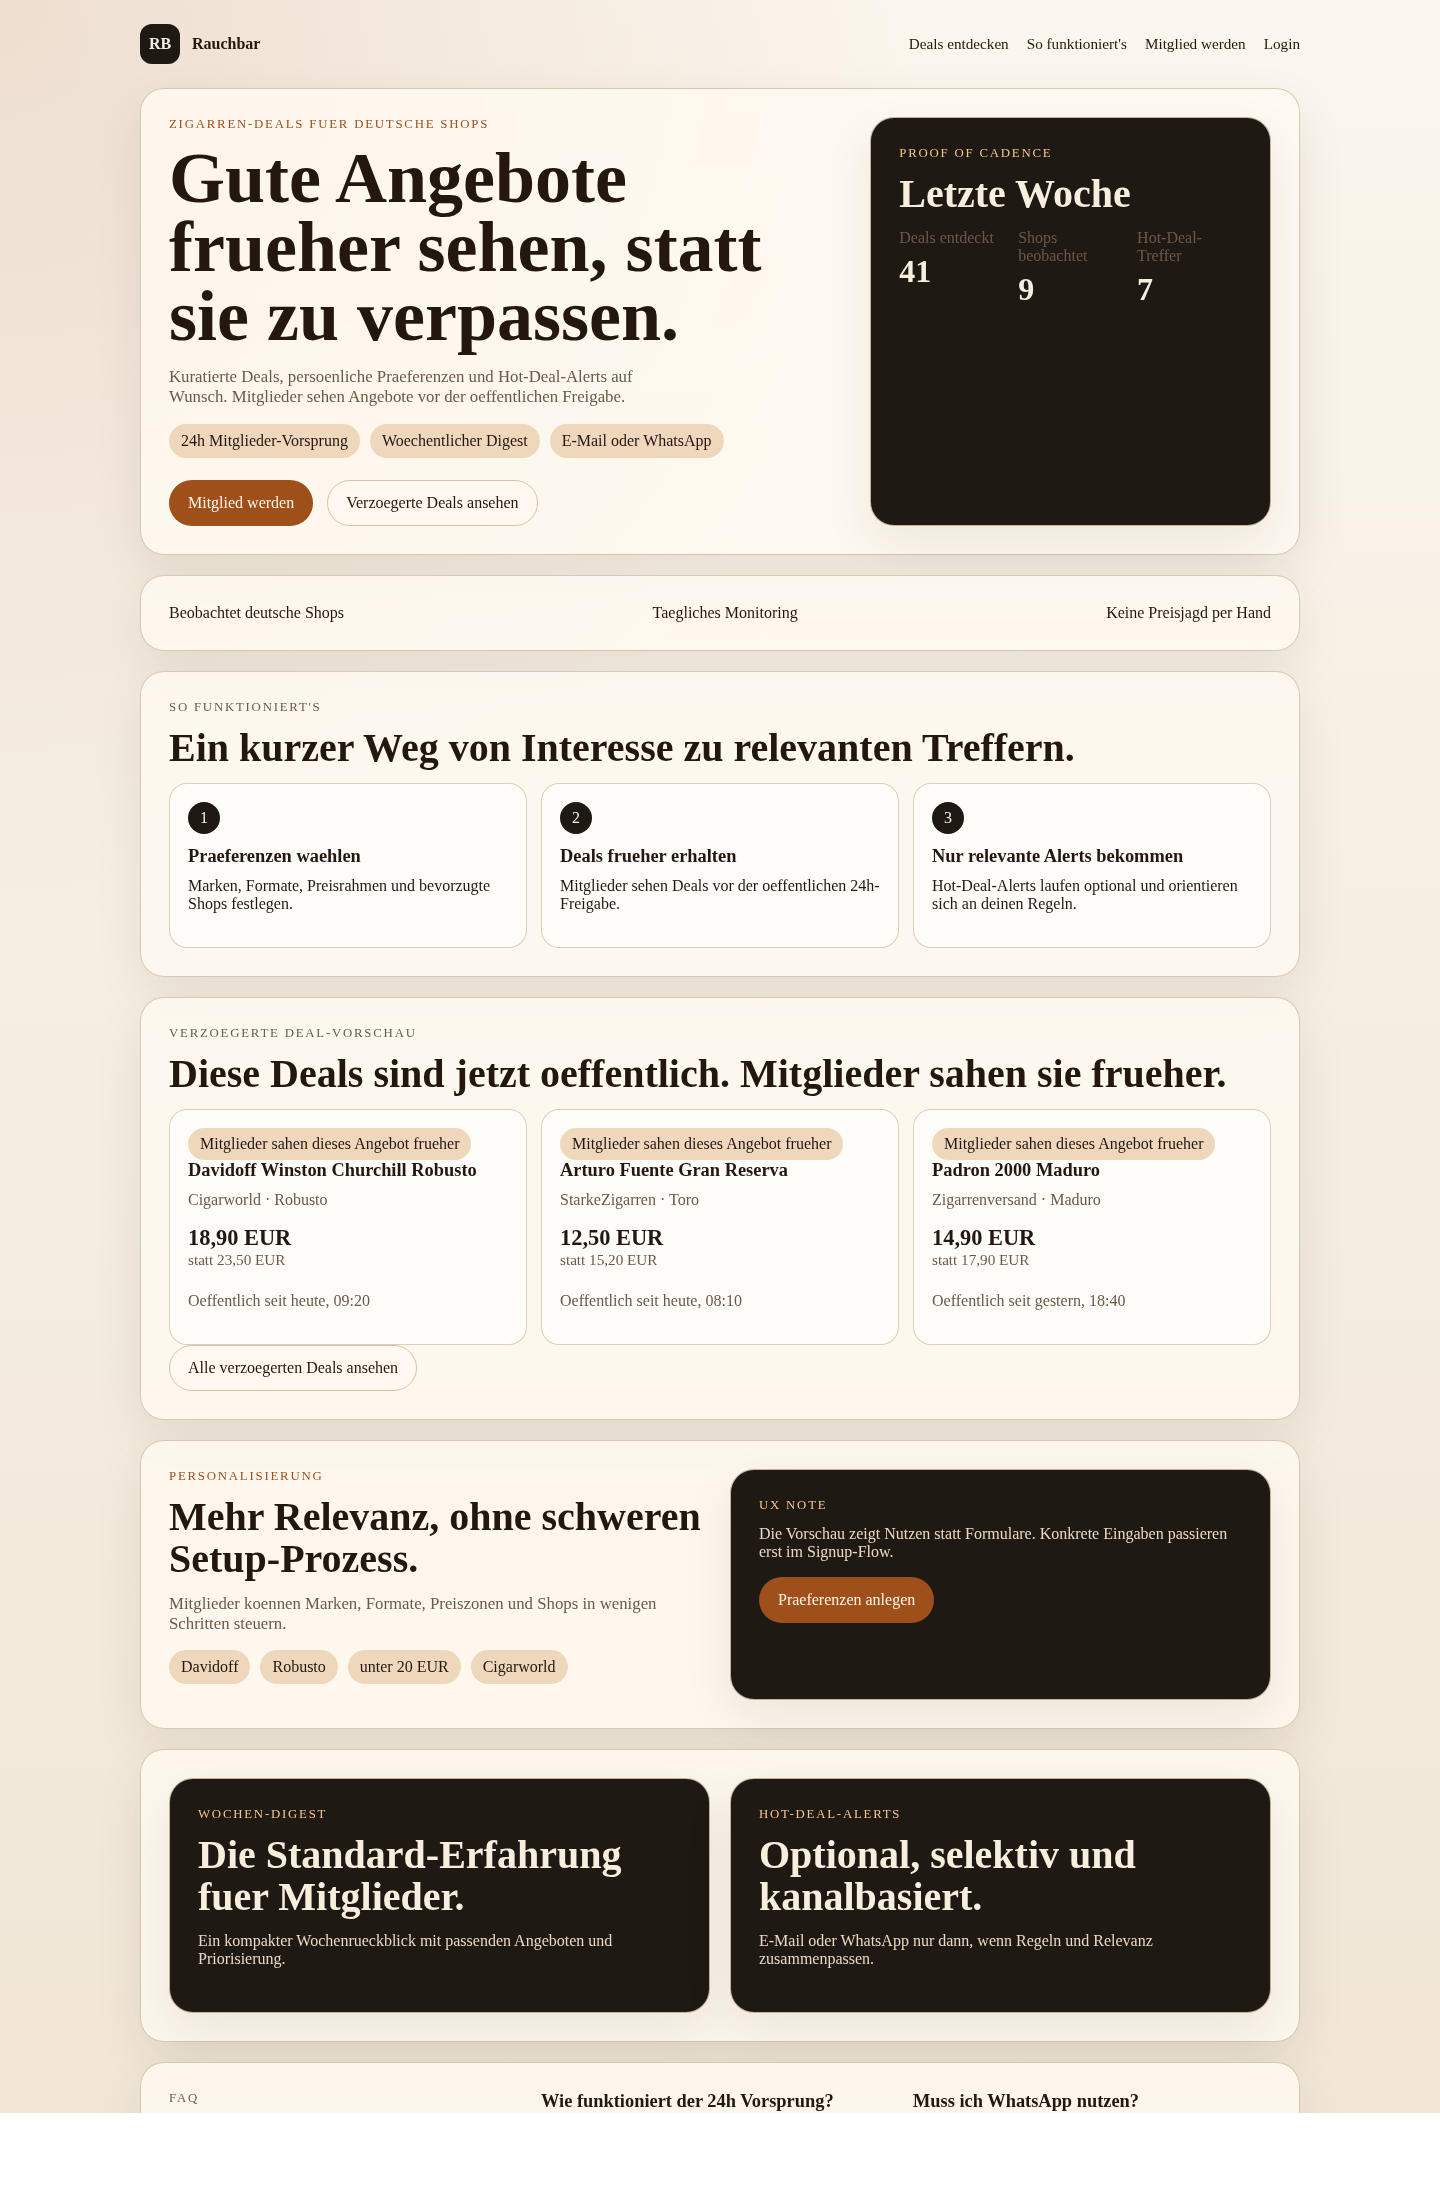
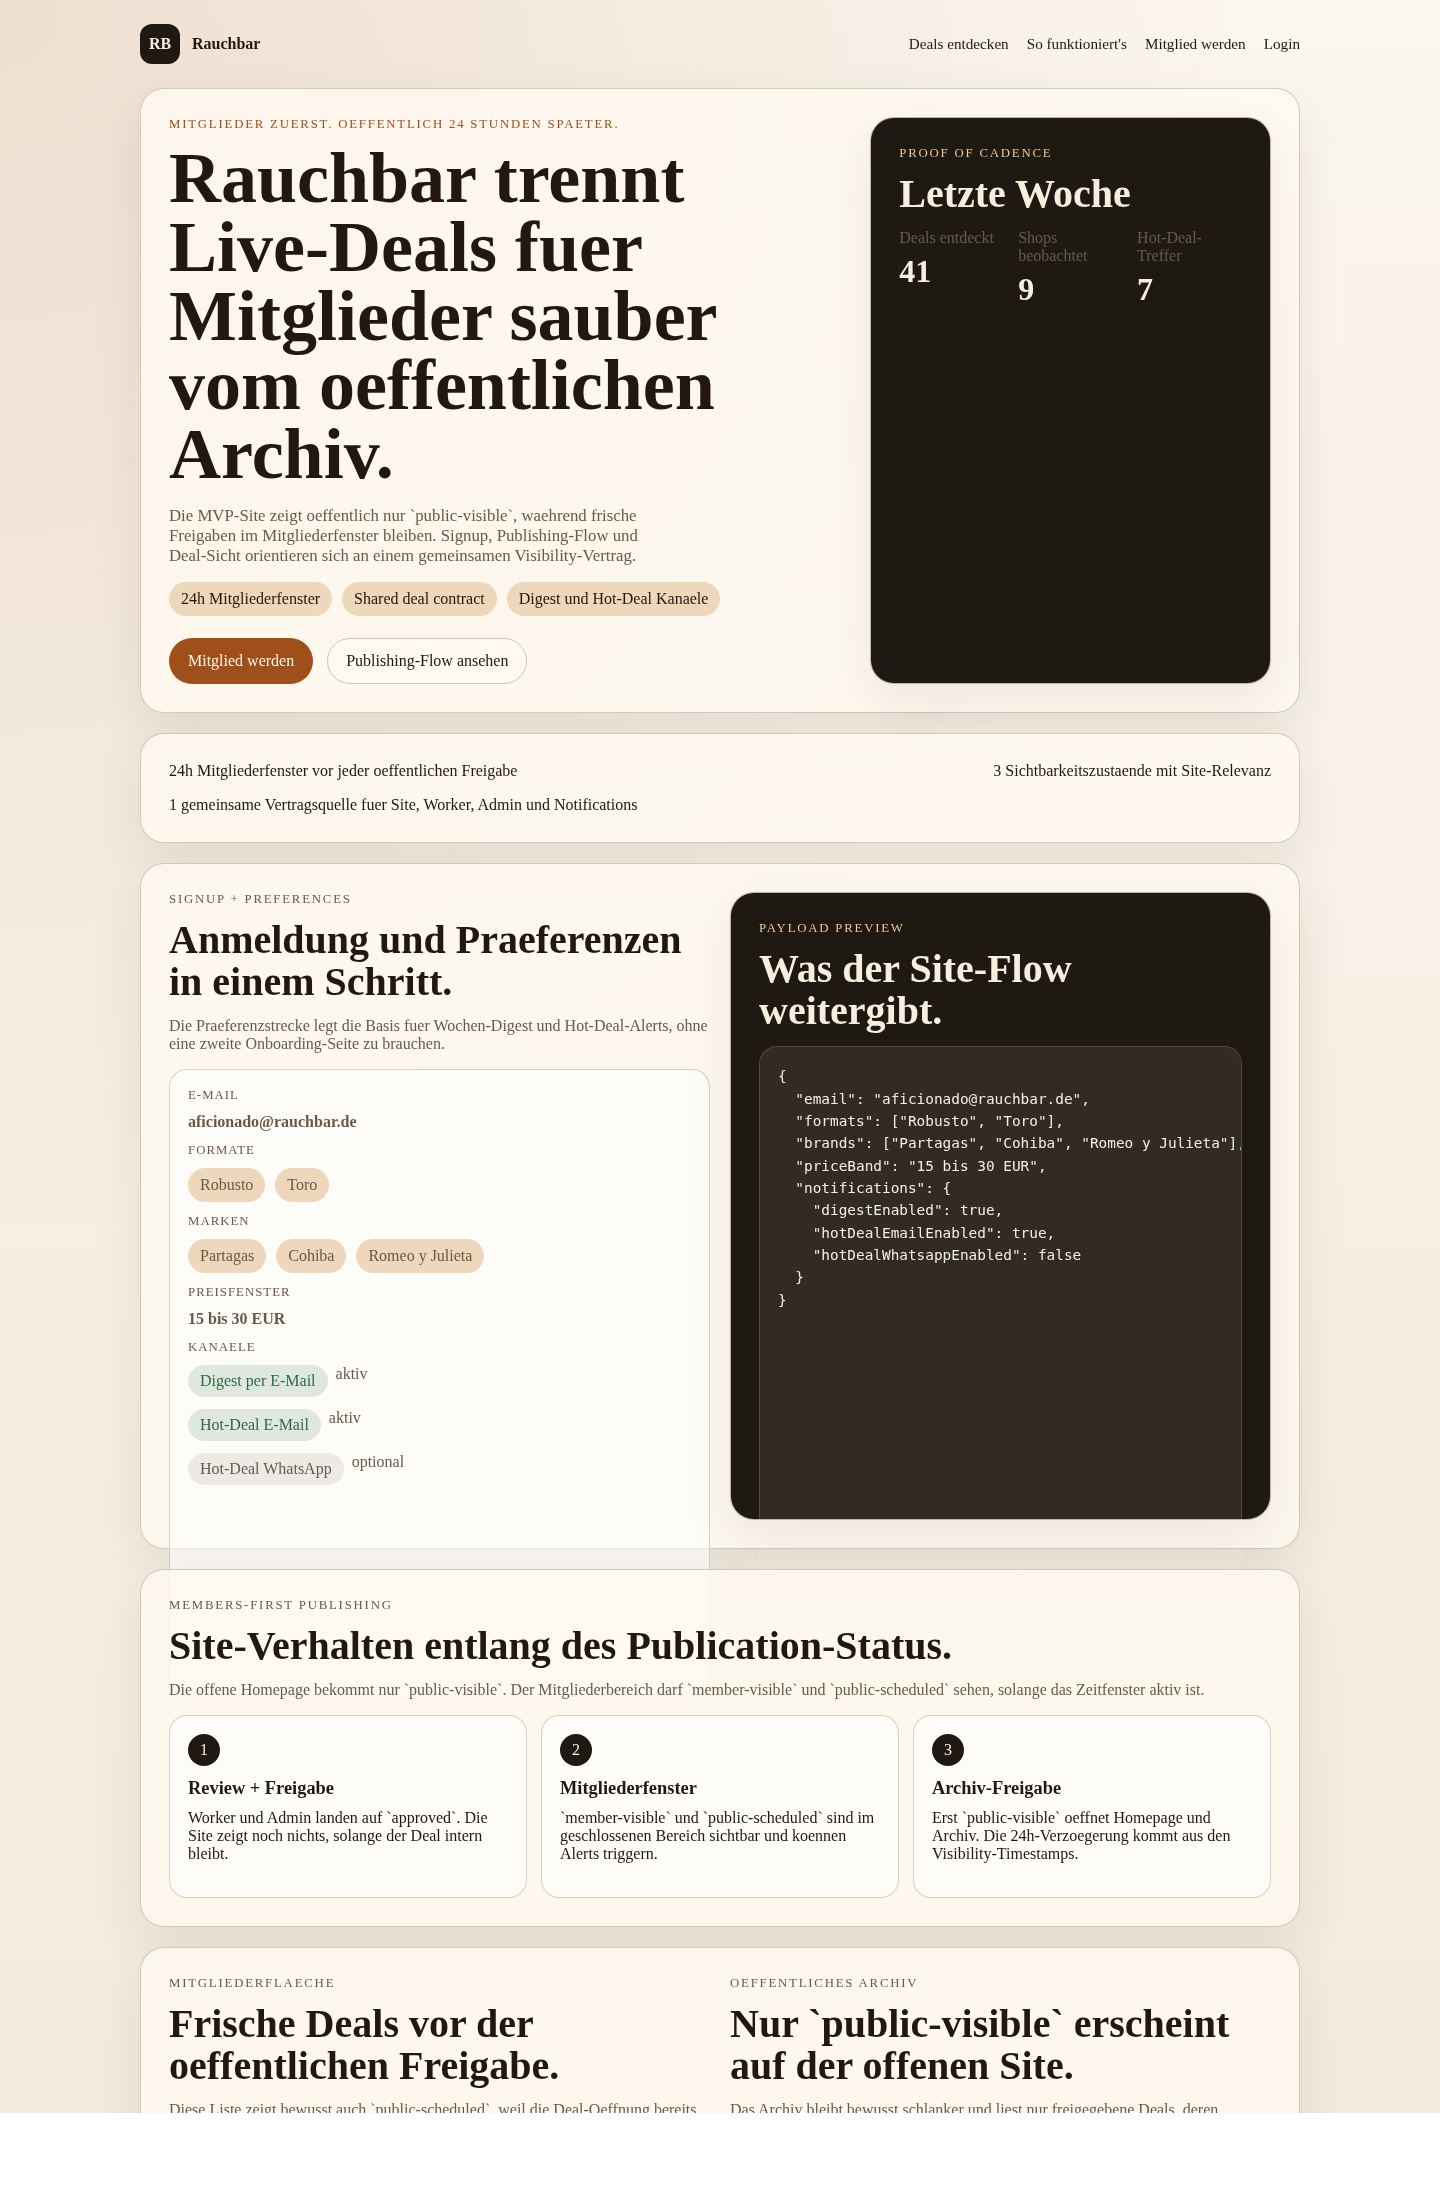
Refresh MVP screenshot baseline

diff --git a/tools/ux-preview/public/index.html b/tools/ux-preview/public/index.html
@@ -38,98 +38,186 @@
     <main class="page-shell">
       <section class="hero panel">
         <div class="hero-copy">
-          <p class="eyebrow">Zigarren-Deals fuer deutsche Shops</p>
-          <h1>Gute Angebote frueher sehen, statt sie zu verpassen.</h1>
+          <p class="eyebrow">Mitglieder zuerst. Oeffentlich 24 Stunden spaeter.</p>
+          <h1>Rauchbar trennt Live-Deals fuer Mitglieder sauber vom oeffentlichen Archiv.</h1>
           <p class="lead">
-            Kuratierte Deals, persoenliche Praeferenzen und Hot-Deal-Alerts auf
-            Wunsch. Mitglieder sehen Angebote vor der oeffentlichen Freigabe.
+            Die MVP-Site zeigt oeffentlich nur `public-visible`, waehrend frische
+            Freigaben im Mitgliederfenster bleiben. Signup, Publishing-Flow und
+            Deal-Sicht orientieren sich an einem gemeinsamen Visibility-Vertrag.
           </p>
           <ul class="pill-row">
-            <li>24h Mitglieder-Vorsprung</li>
-            <li>Woechentlicher Digest</li>
-            <li>E-Mail oder WhatsApp</li>
+            <li>24h Mitgliederfenster</li>
+            <li>Shared deal contract</li>
+            <li>Digest und Hot-Deal Kanaele</li>
           </ul>
           <div class="cta-row" id="signup">
             <a class="button button-primary" href="#signup">Mitglied werden</a>
-            <a class="button button-secondary" href="#archive">Verzoegerte Deals ansehen</a>
+            <a class="button button-secondary" href="#publishing-flow">Publishing-Flow ansehen</a>
           </div>
         </div>
         <aside class="hero-proof panel panel-contrast" data-metrics-panel>
-          <p class="panel-label">Proof of cadence</p>
-          <h2>Letzte Woche</h2>
-          <dl class="metrics-list">
+          <p class="panel-label">Visibility contract</p>
+          <h2>Deal-Sichtbarkeit</h2>
+          <dl class="metrics-list metrics-list-single">
             <div>
-              <dt>Deals entdeckt</dt>
-              <dd>41</dd>
+              <dt>`member-visible`</dt>
+              <dd>intern oder im Mitgliederbereich</dd>
             </div>
             <div>
-              <dt>Shops beobachtet</dt>
-              <dd>9</dd>
+              <dt>`public-scheduled`</dt>
+              <dd>oeffentliche Freigabe geplant</dd>
             </div>
             <div>
-              <dt>Hot-Deal-Treffer</dt>
-              <dd>7</dd>
+              <dt>`public-visible`</dt>
+              <dd>Deal darf auf Homepage und Archiv</dd>
             </div>
           </dl>
         </aside>
       </section>
 
       <section class="trust-strip panel panel-inline">
-        <span>Beobachtet deutsche Shops</span>
-        <span>Taegliches Monitoring</span>
-        <span>Keine Preisjagd per Hand</span>
+        <span>24h Mitgliederfenster vor jeder oeffentlichen Freigabe</span>
+        <span>3 Sichtbarkeitszustaende mit Site-Relevanz</span>
+        <span>1 gemeinsame Vertragsquelle fuer Site, Worker, Admin und Notifications</span>
       </section>
 
-      <section id="how-it-works" class="panel">
+      <section id="signup" class="panel two-column">
+        <article>
+          <div class="section-heading">
+            <p class="eyebrow">Signup + Preferences</p>
+            <h2>Anmeldung und Praeferenzen in einem Schritt.</h2>
+            <p>
+              Die Praeferenzstrecke legt die Basis fuer Wochen-Digest und
+              Hot-Deal-Alerts, ohne eine zweite Onboarding-Seite zu brauchen.
+            </p>
+          </div>
+          <div class="step-card signup-card">
+            <div class="stack-list">
+              <div class="field-row">
+                <span class="field-title">E-Mail</span>
+                <span class="field-value">aficionado@rauchbar.de</span>
+              </div>
+              <div class="field-row">
+                <span class="field-title">Formate</span>
+                <div class="pill-row">
+                  <li>Robusto</li>
+                  <li>Toro</li>
+                </div>
+              </div>
+              <div class="field-row">
+                <span class="field-title">Marken</span>
+                <div class="pill-row">
+                  <li>Partagas</li>
+                  <li>Cohiba</li>
+                  <li>Romeo y Julieta</li>
+                </div>
+              </div>
+              <div class="field-row">
+                <span class="field-title">Preisfenster</span>
+                <span class="field-value">15 bis 30 EUR</span>
+              </div>
+              <div class="field-row">
+                <span class="field-title">Kanaele</span>
+                <ul class="stack-list">
+                  <li><span class="badge badge-success">Digest per E-Mail</span> aktiv</li>
+                  <li><span class="badge badge-success">Hot-Deal E-Mail</span> aktiv</li>
+                  <li><span class="badge">Hot-Deal WhatsApp</span> optional</li>
+                </ul>
+              </div>
+            </div>
+          </div>
+        </article>
+        <aside class="panel panel-contrast">
+          <div class="section-heading">
+            <p class="eyebrow">Payload preview</p>
+            <h2>Was der Site-Flow weitergibt.</h2>
+          </div>
+          <pre class="code-block">{
+  "email": "aficionado@rauchbar.de",
+  "formats": ["Robusto", "Toro"],
+  "brands": ["Partagas", "Cohiba", "Romeo y Julieta"],
+  "priceBand": "15 bis 30 EUR",
+  "notifications": {
+    "digestEnabled": true,
+    "hotDealEmailEnabled": true,
+    "hotDealWhatsappEnabled": false
+  }
+}</pre>
+        </aside>
+      </section>
+
+      <section id="publishing-flow" class="panel">
         <div class="section-heading">
-          <p class="eyebrow">So funktioniert's</p>
-          <h2>Ein kurzer Weg von Interesse zu relevanten Treffern.</h2>
+          <p class="eyebrow">Members-first publishing</p>
+          <h2>Site-Verhalten entlang des Publication-Status.</h2>
+          <p>
+            Die offene Homepage bekommt nur `public-visible`. Der Mitgliederbereich
+            darf `member-visible` und `public-scheduled` sehen, solange das
+            Zeitfenster aktiv ist.
+          </p>
         </div>
         <div class="steps-grid">
           <article class="step-card">
             <span class="step-number">1</span>
-            <h3>Praeferenzen waehlen</h3>
-            <p>Marken, Formate, Preisrahmen und bevorzugte Shops festlegen.</p>
+            <h3>Review + Freigabe</h3>
+            <p>Worker und Admin landen auf `approved`. Die Site zeigt noch nichts, solange der Deal intern bleibt.</p>
           </article>
           <article class="step-card">
             <span class="step-number">2</span>
-            <h3>Deals frueher erhalten</h3>
-            <p>Mitglieder sehen Deals vor der oeffentlichen 24h-Freigabe.</p>
+            <h3>Mitgliederfenster</h3>
+            <p>`member-visible` und `public-scheduled` sind im geschlossenen Bereich sichtbar und koennen Alerts triggern.</p>
           </article>
           <article class="step-card">
             <span class="step-number">3</span>
-            <h3>Nur relevante Alerts bekommen</h3>
-            <p>Hot-Deal-Alerts laufen optional und orientieren sich an deinen Regeln.</p>
+            <h3>Archiv-Freigabe</h3>
+            <p>Erst `public-visible` oeffnet Homepage und Archiv. Die 24h-Verzoegerung kommt aus den Visibility-Timestamps.</p>
           </article>
         </div>
       </section>
 
-      <section id="archive" class="panel">
+      <section id="archive" class="panel two-column">
+        <article>
         <div class="section-heading">
-          <p class="eyebrow">Verzoegerte Deal-Vorschau</p>
-          <h2>Diese Deals sind jetzt oeffentlich. Mitglieder sahen sie frueher.</h2>
+          <p class="eyebrow">Mitgliederflaeche</p>
+          <h2>Frische Deals vor der oeffentlichen Freigabe.</h2>
+          <p>
+            Diese Liste zeigt bewusst auch `public-scheduled`, weil die Deal-Oeffnung
+            bereits geplant ist, aber noch nicht auf der offenen Site auftauchen darf.
+          </p>
         </div>
         <div class="archive-grid" data-archive-grid>
           <article class="deal-card" data-card>
-            <span class="badge badge-accent">Mitglieder sahen dieses Angebot frueher</span>
-            <h3>Davidoff Winston Churchill Robusto</h3>
-            <p class="deal-meta">Cigarworld · Robusto</p>
-            <p class="deal-price">18,90 EUR <span>statt 23,50 EUR</span></p>
-            <p class="deal-foot">Oeffentlich seit heute, 09:20</p>
+            <span class="badge badge-accent">public-scheduled</span>
+            <h3>Cohiba Reserva mit 18% Rabatt</h3>
+            <p class="deal-meta">Cigarworld · Mitgliederbereich</p>
+            <p class="deal-price">28,90 EUR <span>oeffentliche Freigabe in 19 Stunden</span></p>
+            <p class="deal-foot">Kanaele: E-Mail Hot-Deal, WhatsApp Hot-Deal</p>
           </article>
           <article class="deal-card" data-card>
-            <span class="badge badge-accent">Mitglieder sahen dieses Angebot frueher</span>
-            <h3>Arturo Fuente Gran Reserva</h3>
-            <p class="deal-meta">StarkeZigarren · Toro</p>
-            <p class="deal-price">12,50 EUR <span>statt 15,20 EUR</span></p>
-            <p class="deal-foot">Oeffentlich seit heute, 08:10</p>
+            <span class="badge badge-accent">member-visible</span>
+            <h3>Partagas Serie D No. 4 Sampler</h3>
+            <p class="deal-meta">Cigarworld · Mitgliederbereich</p>
+            <p class="deal-price">17,90 EUR <span>noch 22 Stunden exklusiv</span></p>
+            <p class="deal-foot">Kanaele: Wochen-Digest</p>
           </article>
+        </div>
+        </article>
+        <article>
+        <div class="section-heading">
+          <p class="eyebrow">Oeffentliches Archiv</p>
+          <h2>Nur `public-visible` erscheint auf der offenen Site.</h2>
+          <p>
+            Das Archiv bleibt bewusst schlanker und liest nur freigegebene Deals,
+            deren Mitgliederfenster bereits abgelaufen ist.
+          </p>
+        </div>
+        <div class="archive-grid archive-grid-single">
           <article class="deal-card" data-card>
-            <span class="badge badge-accent">Mitglieder sahen dieses Angebot frueher</span>
-            <h3>Padron 2000 Maduro</h3>
-            <p class="deal-meta">Zigarrenversand · Maduro</p>
-            <p class="deal-price">14,90 EUR <span>statt 17,90 EUR</span></p>
-            <p class="deal-foot">Oeffentlich seit gestern, 18:40</p>
+            <span class="badge badge-success">public-visible</span>
+            <h3>Romeo y Julieta Wide Churchill Bundle</h3>
+            <p class="deal-meta">Cigarworld · Archiv</p>
+            <p class="deal-price">23,90 EUR <span>seit 8 Stunden oeffentlich sichtbar</span></p>
+            <p class="deal-foot">Kanaele: Digest, E-Mail Hot-Deal</p>
           </article>
         </div>
         <div class="archive-empty hidden" data-archive-empty>
@@ -140,30 +228,31 @@
           </p>
         </div>
         <a class="button button-secondary" href="#archive">Alle verzoegerten Deals ansehen</a>
+        </article>
       </section>
 
       <section class="panel two-column">
         <div>
-          <p class="eyebrow">Personalisierung</p>
-          <h2>Mehr Relevanz, ohne schweren Setup-Prozess.</h2>
+          <p class="eyebrow">Alert-Routing</p>
+          <h2>Ein Preference-Flow speist Digest und Hot-Deal-Kanaele.</h2>
           <p class="lead">
-            Mitglieder koennen Marken, Formate, Preiszonen und Shops in wenigen
-            Schritten steuern.
+            Die MVP-Site bleibt leicht, traegt aber bereits die Routing-Information
+            fuer Wochen-Digest, E-Mail-Hot-Deals und optionale WhatsApp-Alerts.
           </p>
           <ul class="pill-row">
-            <li>Davidoff</li>
-            <li>Robusto</li>
-            <li>unter 20 EUR</li>
-            <li>Cigarworld</li>
+            <li>Digest per E-Mail</li>
+            <li>E-Mail Hot-Deals</li>
+            <li>WhatsApp optional</li>
+            <li>Deal-Vertrag aus shared package</li>
           </ul>
         </div>
         <div class="panel panel-contrast">
-          <p class="panel-label">UX note</p>
+          <p class="panel-label">MVP note</p>
           <p>
-            Die Vorschau zeigt Nutzen statt Formulare. Konkrete Eingaben passieren
-            erst im Signup-Flow.
+            Die aktualisierte Screenshot-Baseline zeigt nicht nur Marketing, sondern
+            den echten Publication- und Notification-Rahmen der aktuellen MVP-Flaeche.
           </p>
-          <a class="button button-primary" href="#signup">Praeferenzen anlegen</a>
+          <a class="button button-primary" href="#signup">Signup-Flow ansehen</a>
         </div>
       </section>
 

diff --git a/tools/ux-preview/public/styles.css b/tools/ux-preview/public/styles.css
@@ -293,6 +293,12 @@ h3 {
   grid-template-columns: repeat(3, minmax(0, 1fr));
 }
 
+.metrics-list-single dd {
+  font-size: 1rem;
+  font-weight: 500;
+  line-height: 1.5;
+}
+
 .metrics-list dt,
 .deal-meta,
 .deal-foot,
@@ -312,12 +318,49 @@ h3 {
   grid-template-columns: repeat(3, minmax(0, 1fr));
 }
 
+.archive-grid-single {
+  grid-template-columns: 1fr;
+}
+
 .step-card,
 .deal-card {
   padding: 18px;
   border-radius: var(--radius-md);
   background: rgba(255, 255, 255, 0.6);
   border: 1px solid rgba(214, 195, 170, 0.8);
+}
+
+.signup-card,
+.code-block {
+  height: 100%;
+}
+
+.field-row {
+  display: grid;
+  gap: 10px;
+}
+
+.field-title {
+  font-size: 0.8rem;
+  text-transform: uppercase;
+  letter-spacing: 0.08em;
+  color: var(--text-muted);
+}
+
+.field-value {
+  font-weight: 600;
+}
+
+.code-block {
+  margin: 0;
+  padding: 18px;
+  border-radius: var(--radius-md);
+  background: rgba(255, 248, 238, 0.08);
+  border: 1px solid rgba(255, 248, 238, 0.14);
+  color: #f7eede;
+  font-size: 0.9rem;
+  line-height: 1.55;
+  overflow: auto;
 }
 
 .step-number {
